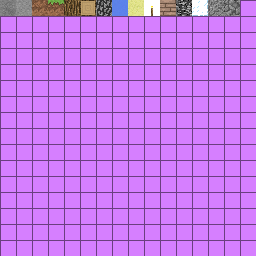
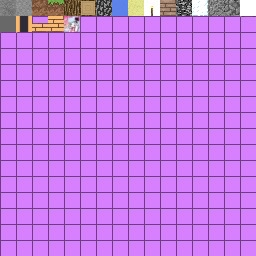
second commit

diff --git a/js-minecraft-master/src/js/net/minecraft/client/world/block/BlockRegistry.js b/js-minecraft-master/src/js/net/minecraft/client/world/block/BlockRegistry.js
@@ -14,7 +14,9 @@ import BlockGlass from "./type/BlockGlass.js";
 import SoundGlass from "./sound/SoundGlass.js";
 import BlockGravel from "./type/BlockGravel.js";
 import BlockCobblestone from "./type/BlockCobblestone.js";
-
+import Blockwhite from "./type/Blockwhite.js";
+import Blockgray from "./type/Blockgray.js";
+import Blockpillar from "./type/Blockpillar.js";
 export class BlockRegistry {
 
     static create() {
@@ -41,5 +43,9 @@ export class BlockRegistry {
         BlockRegistry.WATER = new BlockWater(9, 7);
         BlockRegistry.SAND = new BlockSand(12, 8)
         BlockRegistry.TORCH = new BlockTorch(50, 9)
+        BlockRegistry.WHITE = new Blockwhite(36, 15);
+        BlockRegistry.GRAY = new Blockgray(37, 16);
+        BlockRegistry.PILLAR = new Blockpillar(38, 17);
+
     }
 }

diff --git a/js-minecraft-master/src/js/net/minecraft/client/world/block/type/Blockpillar.js b/js-minecraft-master/src/js/net/minecraft/client/world/block/type/Blockpillar.js
@@ -1,0 +1,12 @@
+import Block from "../Block.js";
+
+export default class Blockpillar extends Block {
+
+    constructor(id, textureSlotId) {
+        super(id, textureSlotId);
+
+        // Sound
+        this.sound = Block.sounds.stone;
+    }
+
+}

diff --git a/js-minecraft-master/src/js/net/minecraft/client/world/block/type/Blockwhite.js b/js-minecraft-master/src/js/net/minecraft/client/world/block/type/Blockwhite.js
@@ -1,0 +1,12 @@
+import Block from "../Block.js";
+
+export default class Blockwhite extends Block {
+
+    constructor(id, textureSlotId) {
+        super(id, textureSlotId);
+
+        // Sound
+        this.sound = Block.sounds.stone;
+    }
+
+}

diff --git a/js-minecraft-master/src/js/net/minecraft/client/world/block/type/Blockgray.js b/js-minecraft-master/src/js/net/minecraft/client/world/block/type/Blockgray.js
@@ -1,0 +1,12 @@
+import Block from "../Block.js";
+
+export default class Blockgray extends Block {
+
+    constructor(id, textureSlotId) {
+        super(id, textureSlotId);
+
+        // Sound
+        this.sound = Block.sounds.stone;
+    }
+
+}

diff --git a/js-minecraft-master/src/js/net/minecraft/client/entity/PlayerEntity.js b/js-minecraft-master/src/js/net/minecraft/client/entity/PlayerEntity.js
@@ -142,6 +142,7 @@ export default class PlayerEntity extends EntityLiving {
         }
         this.cameraYaw += (speedXZ - this.cameraYaw) * 0.4;
         this.cameraPitch += (speedY - this.cameraPitch) * 0.8;
+
     }
 
     isInWater() {
